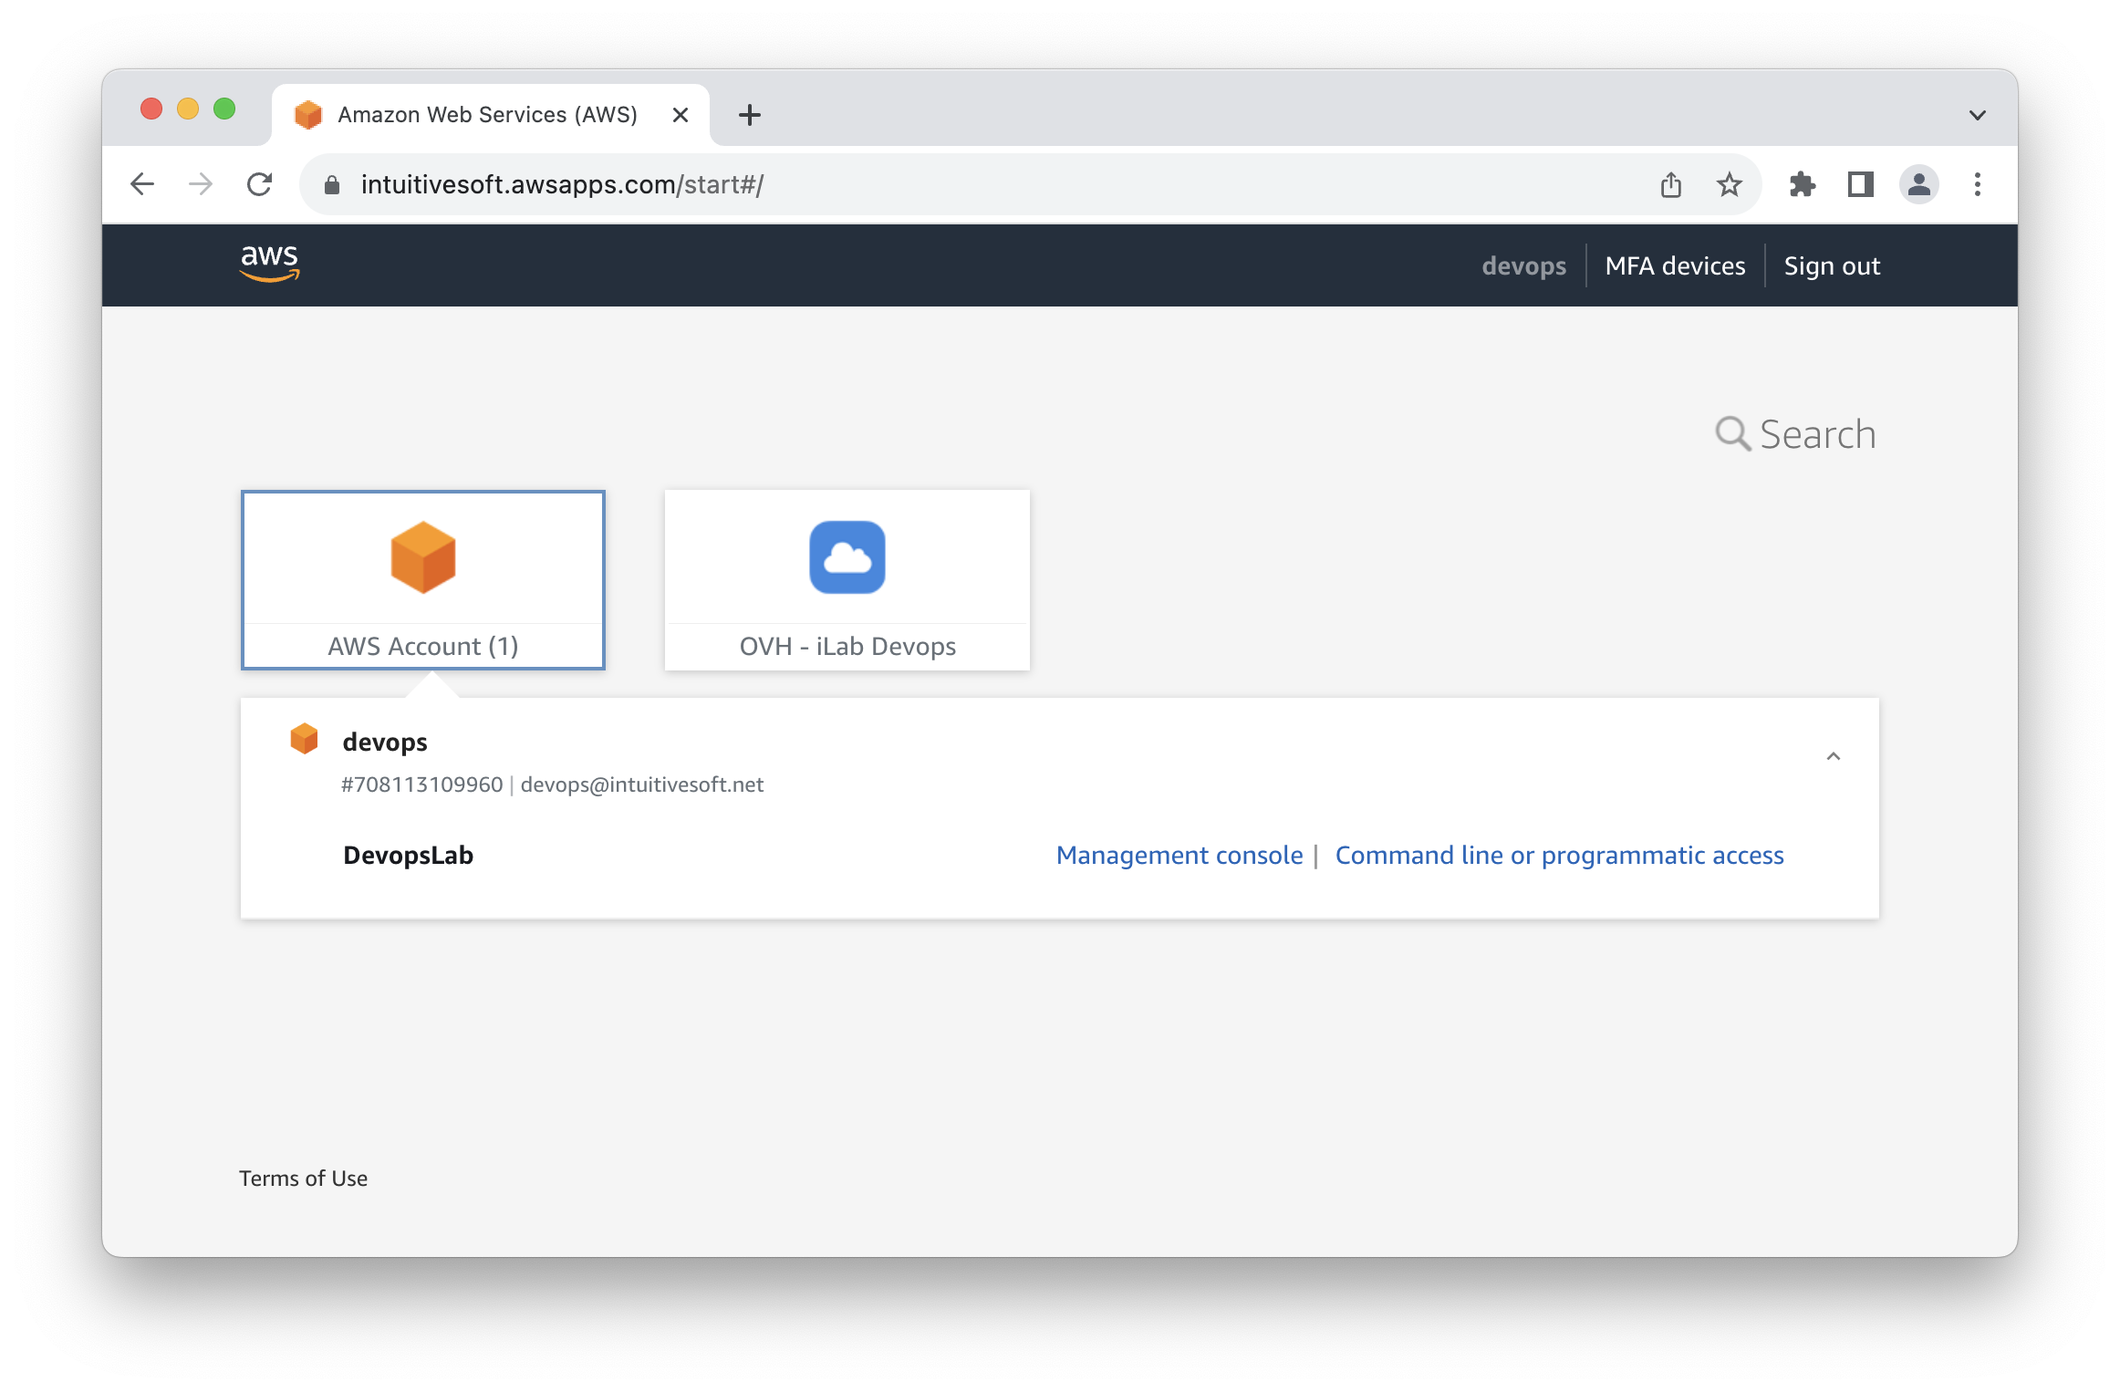
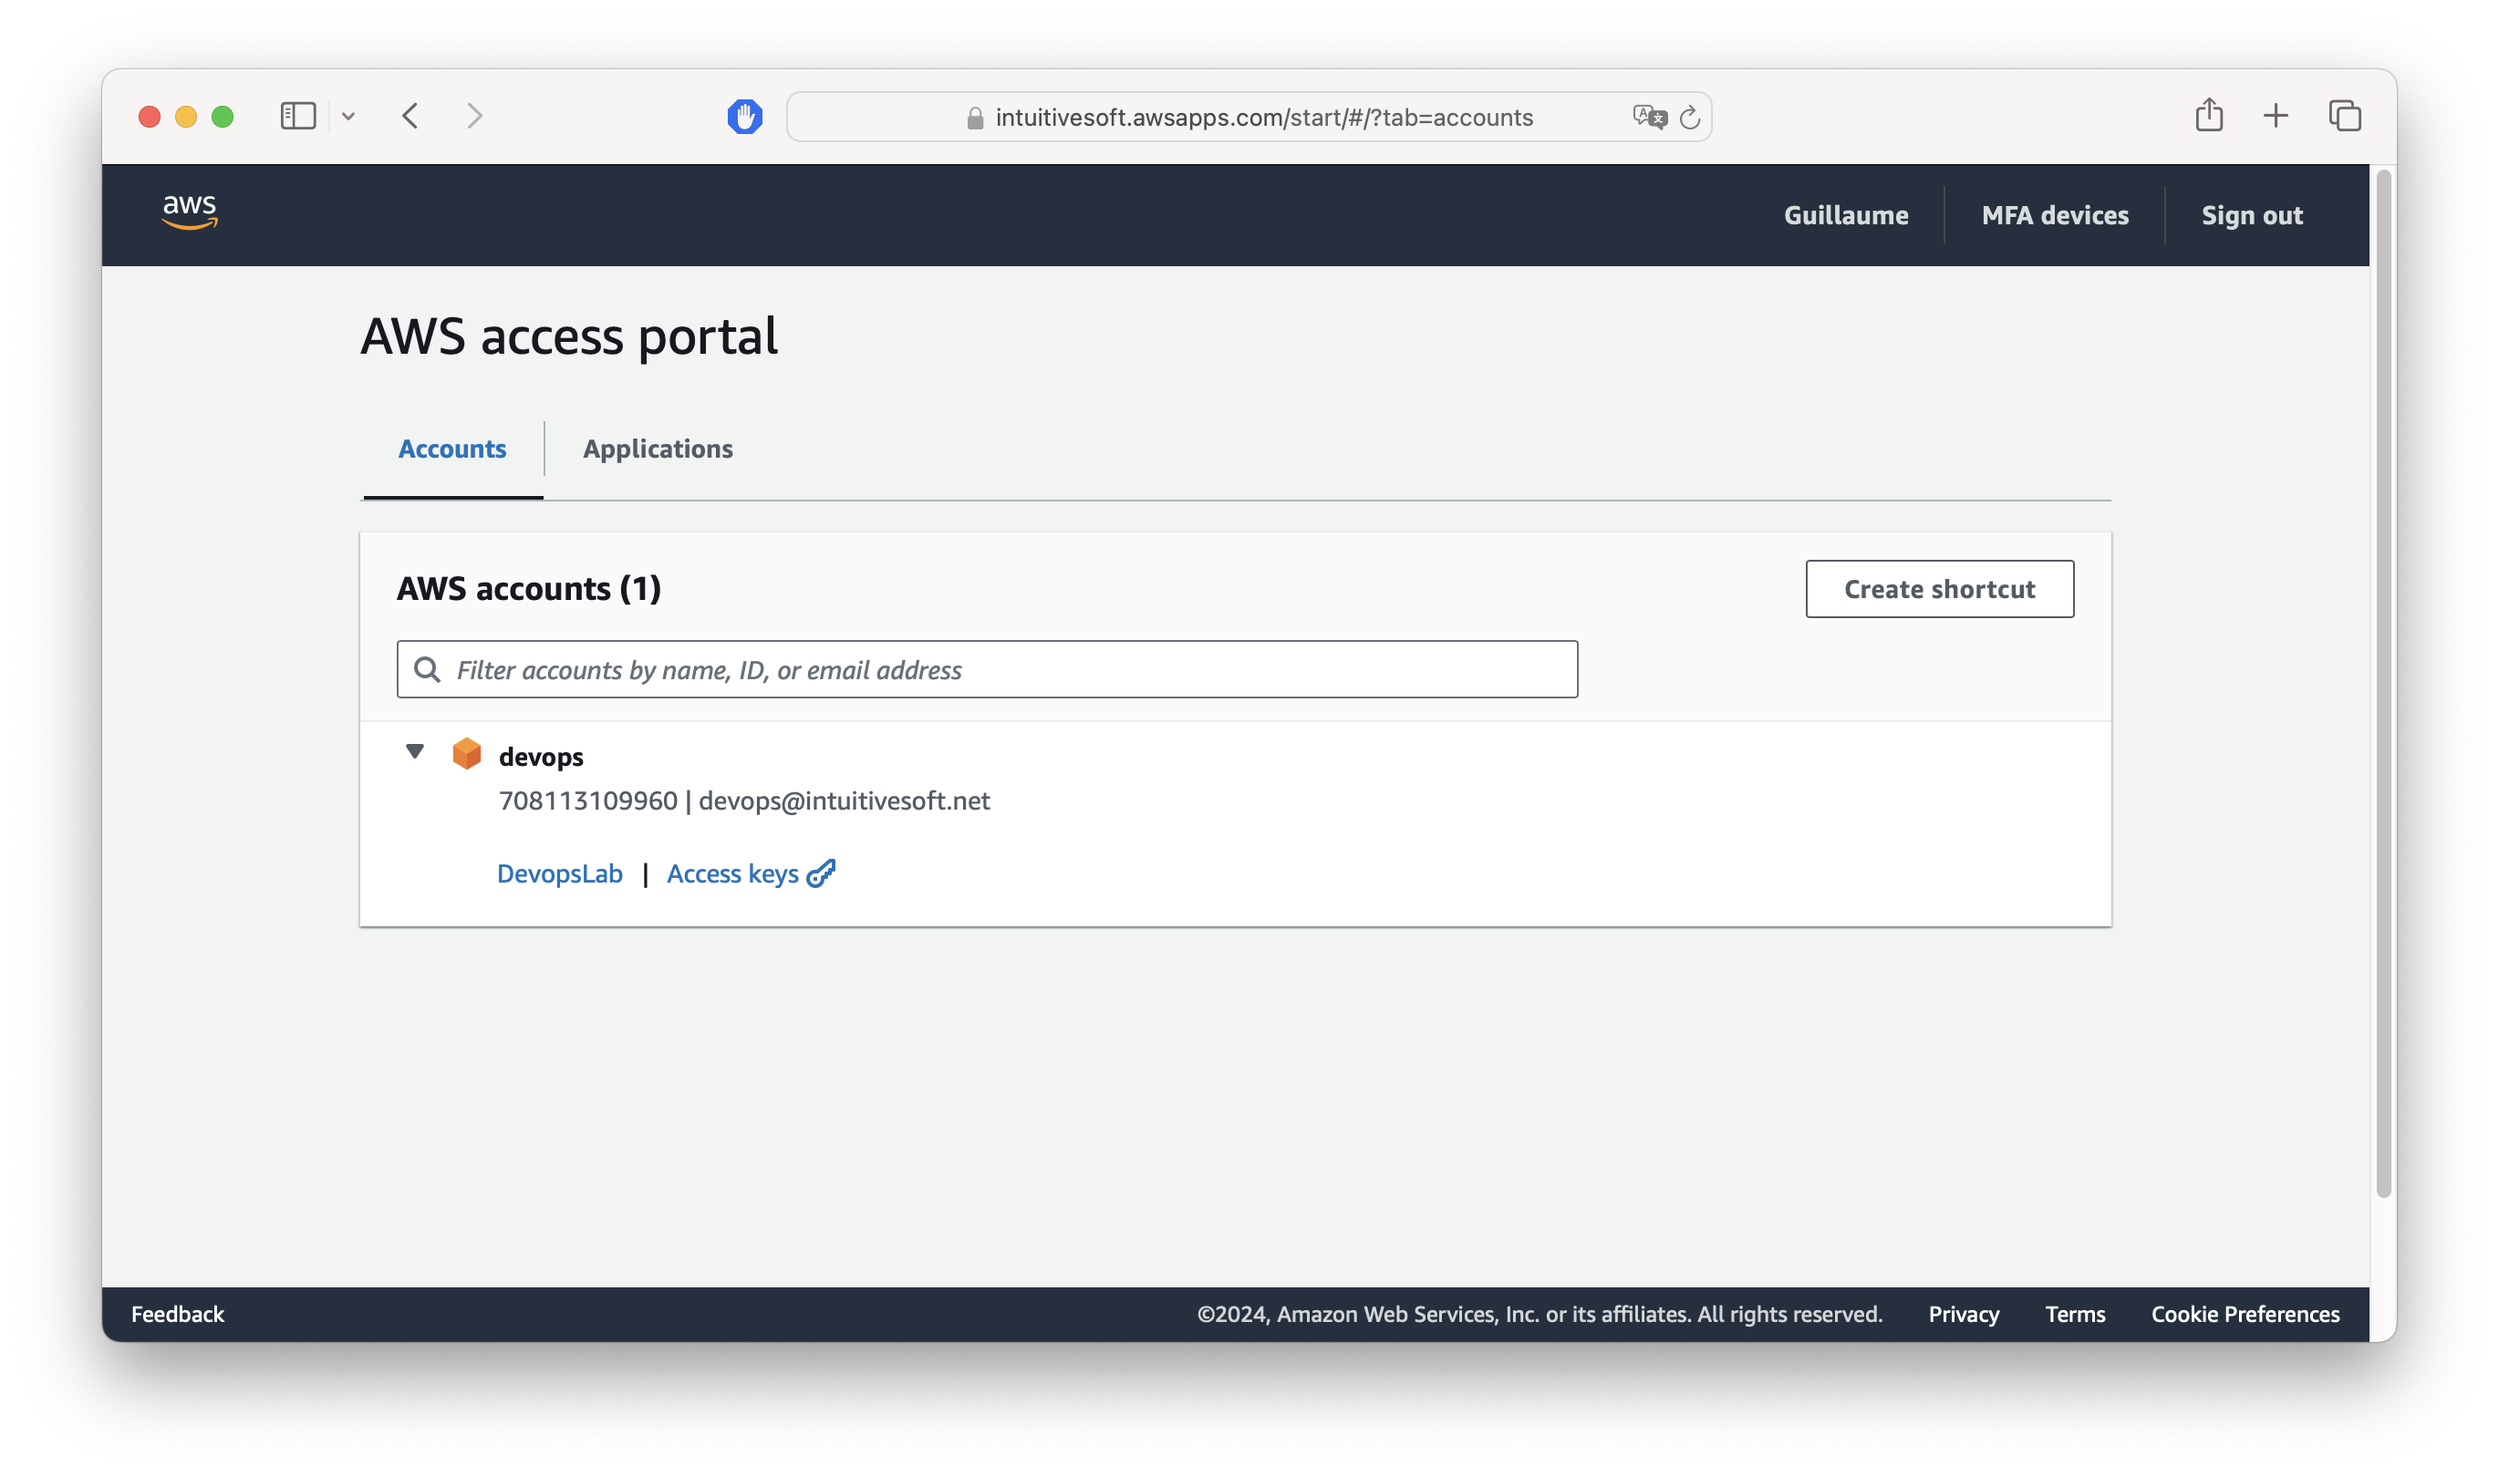
update SSO login page

diff --git a/21.aws-console.md b/21.aws-console.md
@@ -16,7 +16,7 @@ Connect to the AWS management console using the training SSO portal :
 
  [__https://intuitivesoft.awsapps.com/start#/__](https://intuitivesoft.awsapps.com/start#/)
 
-Select your training AWS account and click the link  `Management console` to get access to the account main page.
+Select your training AWS account and click the link  `DevopsLab` to get access to the account main page.
 
 ![](images/aws_login.png)
 

diff --git a/97.aws_first_connect.md b/97.aws_first_connect.md
@@ -47,7 +47,7 @@ Connect to the AWS management console using the training SSO portal :
 
  [__https://intuitivesoft.awsapps.com/start#/__](https://intuitivesoft.awsapps.com/start#/)
 
-Select your training AWS account and click the link  `Management console` to get access to the account main page.
+Select your training AWS account and click the link  `DevopsLab` to get access to the account main page.
 
 ![](images/aws_login.png)
 
